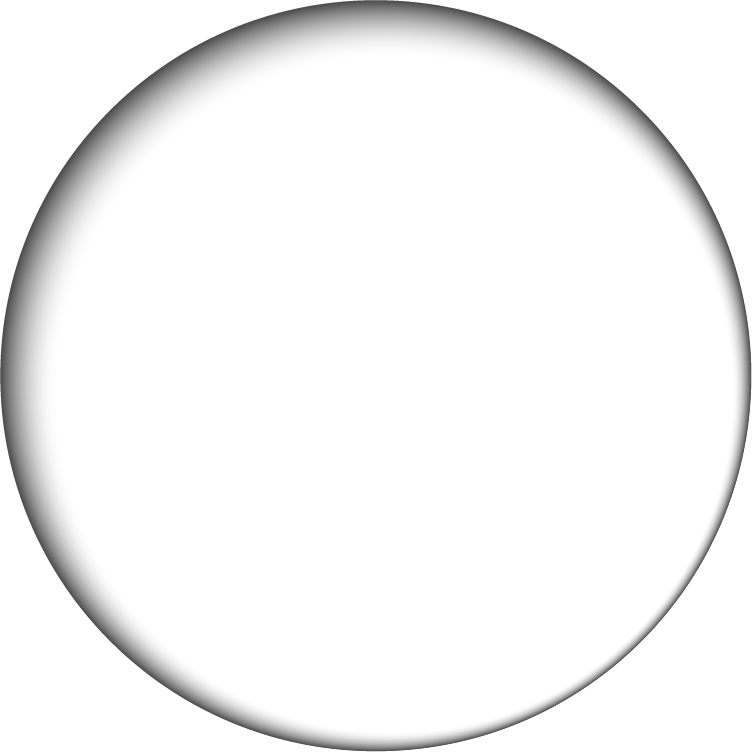
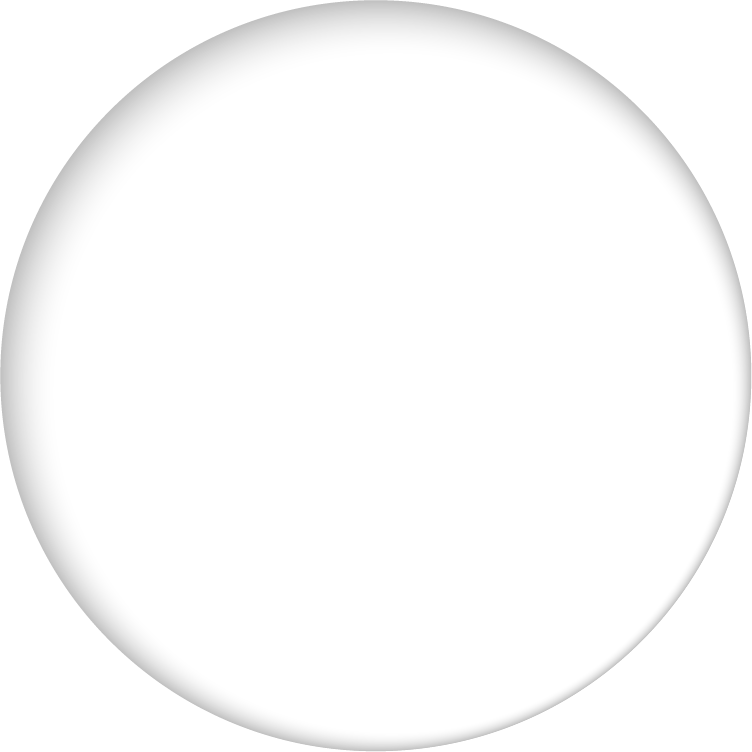
44

diff --git a/js/clickfunction.js b/js/clickfunction.js
@@ -7,7 +7,7 @@ $('.num_clock_btn').click(function () {
   if (eleclockopen == 0) {
     $('.time_box').removeClass('display_none')
     $('.num_clock_btn').css({
-      background: "url(img/bt1-1.svg)",
+      background: "url(img/bt1-1.png)",
       backgroundSize: 'cover'
     })
     eleclockopen = 1
@@ -29,7 +29,7 @@ $('.kiseki_btn').click(function () {
     $('svg').empty()
 
     $('.kiseki_btn').css({
-      background: "url(img/bt2-1.svg)",
+      background: "url(img/bt2-1.png)",
       backgroundSize: 'cover'
     })
     kisakiopen = 1
@@ -123,7 +123,7 @@ $('.close_btn').click(function () {
   window.close();
 })
 $('.backpage_btn').click(function () {
-  history.back()
+  location.reload()
 })
 
 
@@ -147,6 +147,7 @@ $('.ten_add').click(function () {
 
   $(this).closest('.timeboxsize').data("value", addtime($(this), 10))
   settime()
+  settimegogo()
 })
 $('.one_add').click(function () {
   if ($(this).closest('.timeboxsize').data("hour")) {
@@ -163,6 +164,7 @@ $('.one_add').click(function () {
 
   $(this).closest('.timeboxsize').data("value", addtime($(this), 1))
   settime()
+  settimegogo()
 
 })
 $('.ten_reduce').click(function () {
@@ -179,6 +181,8 @@ $('.ten_reduce').click(function () {
 
   $(this).closest('.timeboxsize').data("value", addtime($(this), -10))
   settime()
+  settimegogo()
+
 })
 $('.one_reduce').click(function () {
   if ($(this).closest('.timeboxsize').data("hour")) {
@@ -193,6 +197,7 @@ $('.one_reduce').click(function () {
   $(this).closest('.timeboxsize').data("value", addtime($(this), -1))
 
   settime()
+  settimegogo()
 
 })
 
@@ -326,7 +331,7 @@ function rotate_hour(e) {
   const x = e.clientX - centerX;
   const y = e.clientY - centerY;
 
- 
+
   var a = Math.atan2(y, x) * 180 / Math.PI;
 
   if (a >= -180 && a < 0) {
@@ -343,6 +348,47 @@ function rotate_hour(e) {
   console.log(a)
   el_hour.style.transform = `rotate(${a + minvalue * 0.5 + 90}deg)`;
 
+
+
+
+  let cc = el_hour.style.transform.slice(7, 25)
+
+
+  cc = parseInt(cc)
+  console.log(cc)
+
+
+
+
+
+  if (cc < 0) {
+    cc = 360 + cc
+  }
+  if (cc != orihour) {
+    $('.drawareahour svg').empty()
+  }
+  if (orihour >= cc) {
+    let cc1 = cc + 360
+    drawpathhour(orihour, cc1)
+  } else {
+    drawpathhour(orihour, cc)
+  }
+
+
+
+
+
+
+
+
+
+
+
+
+
+
+
+
 }
 function rotate_min(e) {
   const x = e.clientX - centerX;
@@ -355,6 +401,31 @@ function rotate_min(e) {
   console.log(a)
   // Rotate
   el_min.style.transform = `rotate(${a + 90}deg)`;
+
+
+  let bb = el_min.style.transform.slice(7, 25)
+
+
+  bb = parseInt(bb)
+
+
+
+
+  if (bb < 0) {
+    bb = 360 + bb
+  }
+  if (bb != orimin) {
+    $('.drawareamin svg').empty()
+  }
+  if (orimin >= bb) {
+    let bb1 = bb + 360
+    drawpathmin(orimin, bb1)
+  } else {
+    drawpathmin(orimin, bb)
+  }
+
+
+
 }
 
 
@@ -374,6 +445,28 @@ function rotate_second(e) {
   console.log(a)
   el_sec.style.transform = `rotate(${a + 90}deg)`;
   let now = Math.floor(a) + 90
+  let aa = el_sec.style.transform.slice(7, 25)
+
+
+
+  aa = parseInt(aa)
+
+
+  if (aa < 0) {
+    aa = 360 + aa
+  }
+  if (aa != orisec) {
+    $('.drawareasec svg').empty()
+  }
+  if (orisec >= aa) {
+    let aa1 = aa + 360
+    drawpathsec(orisec, aa1)
+  } else {
+
+    drawpathsec(orisec, aa)
+  }
+
+
 
 
 }
@@ -383,7 +476,7 @@ var orimin = 0
 var orihour = 0
 
 var newone = 0
-checksec = setInterval(() => {
+function settimegogo() {
   let aa = el_sec.style.transform.slice(7, 25)
   let bb = el_min.style.transform.slice(7, 25)
   let cc = el_hour.style.transform.slice(7, 25)
@@ -392,6 +485,7 @@ checksec = setInterval(() => {
   aa = parseInt(aa)
   bb = parseInt(bb)
   cc = parseInt(cc)
+  console.log(aa, bb, cc)
 
   if (aa < 0) {
     aa = 360 + aa
@@ -401,7 +495,6 @@ checksec = setInterval(() => {
   }
   if (orisec > aa) {
     let aa1 = aa + 360
-
     drawpathsec(orisec, aa1)
   } else {
 
@@ -436,8 +529,9 @@ checksec = setInterval(() => {
   } else {
     drawpathhour(orihour, cc)
   }
+}
 
-}, 20);
+
 $(".minhand").mousedown(function () {
 
   document.addEventListener('mousemove', rotate_min);
@@ -524,7 +618,7 @@ function rotate_hour_moblie(e) {
   var x = e.touches[0].clientX - centerX;
   var y = e.touches[0].clientY - centerY;
 
- 
+
   var a = Math.atan2(y, x) * 180 / Math.PI;
 
   if (a >= -180 && a < 0) {
@@ -594,10 +688,10 @@ $('.sechand').on('touchstart', function () {
 
 
 
-$('html').on('touchend',function(){
+$('html').on('touchend', function () {
   document.removeEventListener('touchmove', rotate_hour_moblie);
   document.removeEventListener('touchmove', rotate_min_moblie);
-  document.removeEventListener('touchmove',rotate_second_moblie);
+  document.removeEventListener('touchmove', rotate_second_moblie);
   let aa = el_sec.style.transform.slice(7, 25)
   if (aa) {
     aa = parseInt(aa)

diff --git a/css/clock.css b/css/clock.css
@@ -168,7 +168,7 @@ svg {
 }
 
 .backpage_btn {
-    background: url(../img/btH.svg);
+    background: url(../img/btH.png);
     background-size: cover;
     position: absolute;
     top: 85.2%;
@@ -177,7 +177,7 @@ svg {
 }
 
 .close_btn {
-    background: url(../img/btX.svg);
+    background: url(../img/btX.png);
     background-size: cover;
     position: absolute;
     cursor: pointer;
@@ -230,18 +230,18 @@ svg {
     background-size: cover;
     position: absolute;
     top: 23.5%;
-    left: 53.6%;
-    transform-origin: 55% 102%;
+    left: 53.7%;
+    transform-origin: 57% 105%;
     cursor: pointer;
 }
 
 .dot {
-    background: url(../img/aP.svg);
+    background: url(../img/aP.png);
     /* background:#d55; */
     background-size: cover;
     position: absolute;
-    top: 46.8%;
-    left: 56%
+    top: 46%;
+    left: 55.5%
 }
 
 .canvas-container {

diff --git a/js/resize.js b/js/resize.js
@@ -52,7 +52,7 @@ function convertSizeALL(className) {
     $('.sechand').css({ width: Math.round(38 * sRatio), height: Math.round(409 * sRatio) });
     $('.minhand').css({ width: Math.round(44 * sRatio), height: Math.round(263 * sRatio) });
     $('.hourhand').css({ width: Math.round(95 * sRatio), height: Math.round(211 * sRatio) });
-    $('.dot').css({ width: Math.round(23 * sRatio), height: Math.round(23 * sRatio) });
+    $('.dot').css({ width: Math.round(46 * sRatio), height: Math.round(46 * sRatio) });
     $('.drawareasec,.drawareamin,.drawareahour').css({ width: Math.round(716 * sRatio), height: Math.round(711 * sRatio) });
     $('.shadow').css({ width: Math.round(752 * sRatio), height: Math.round(752 * sRatio) });
 
